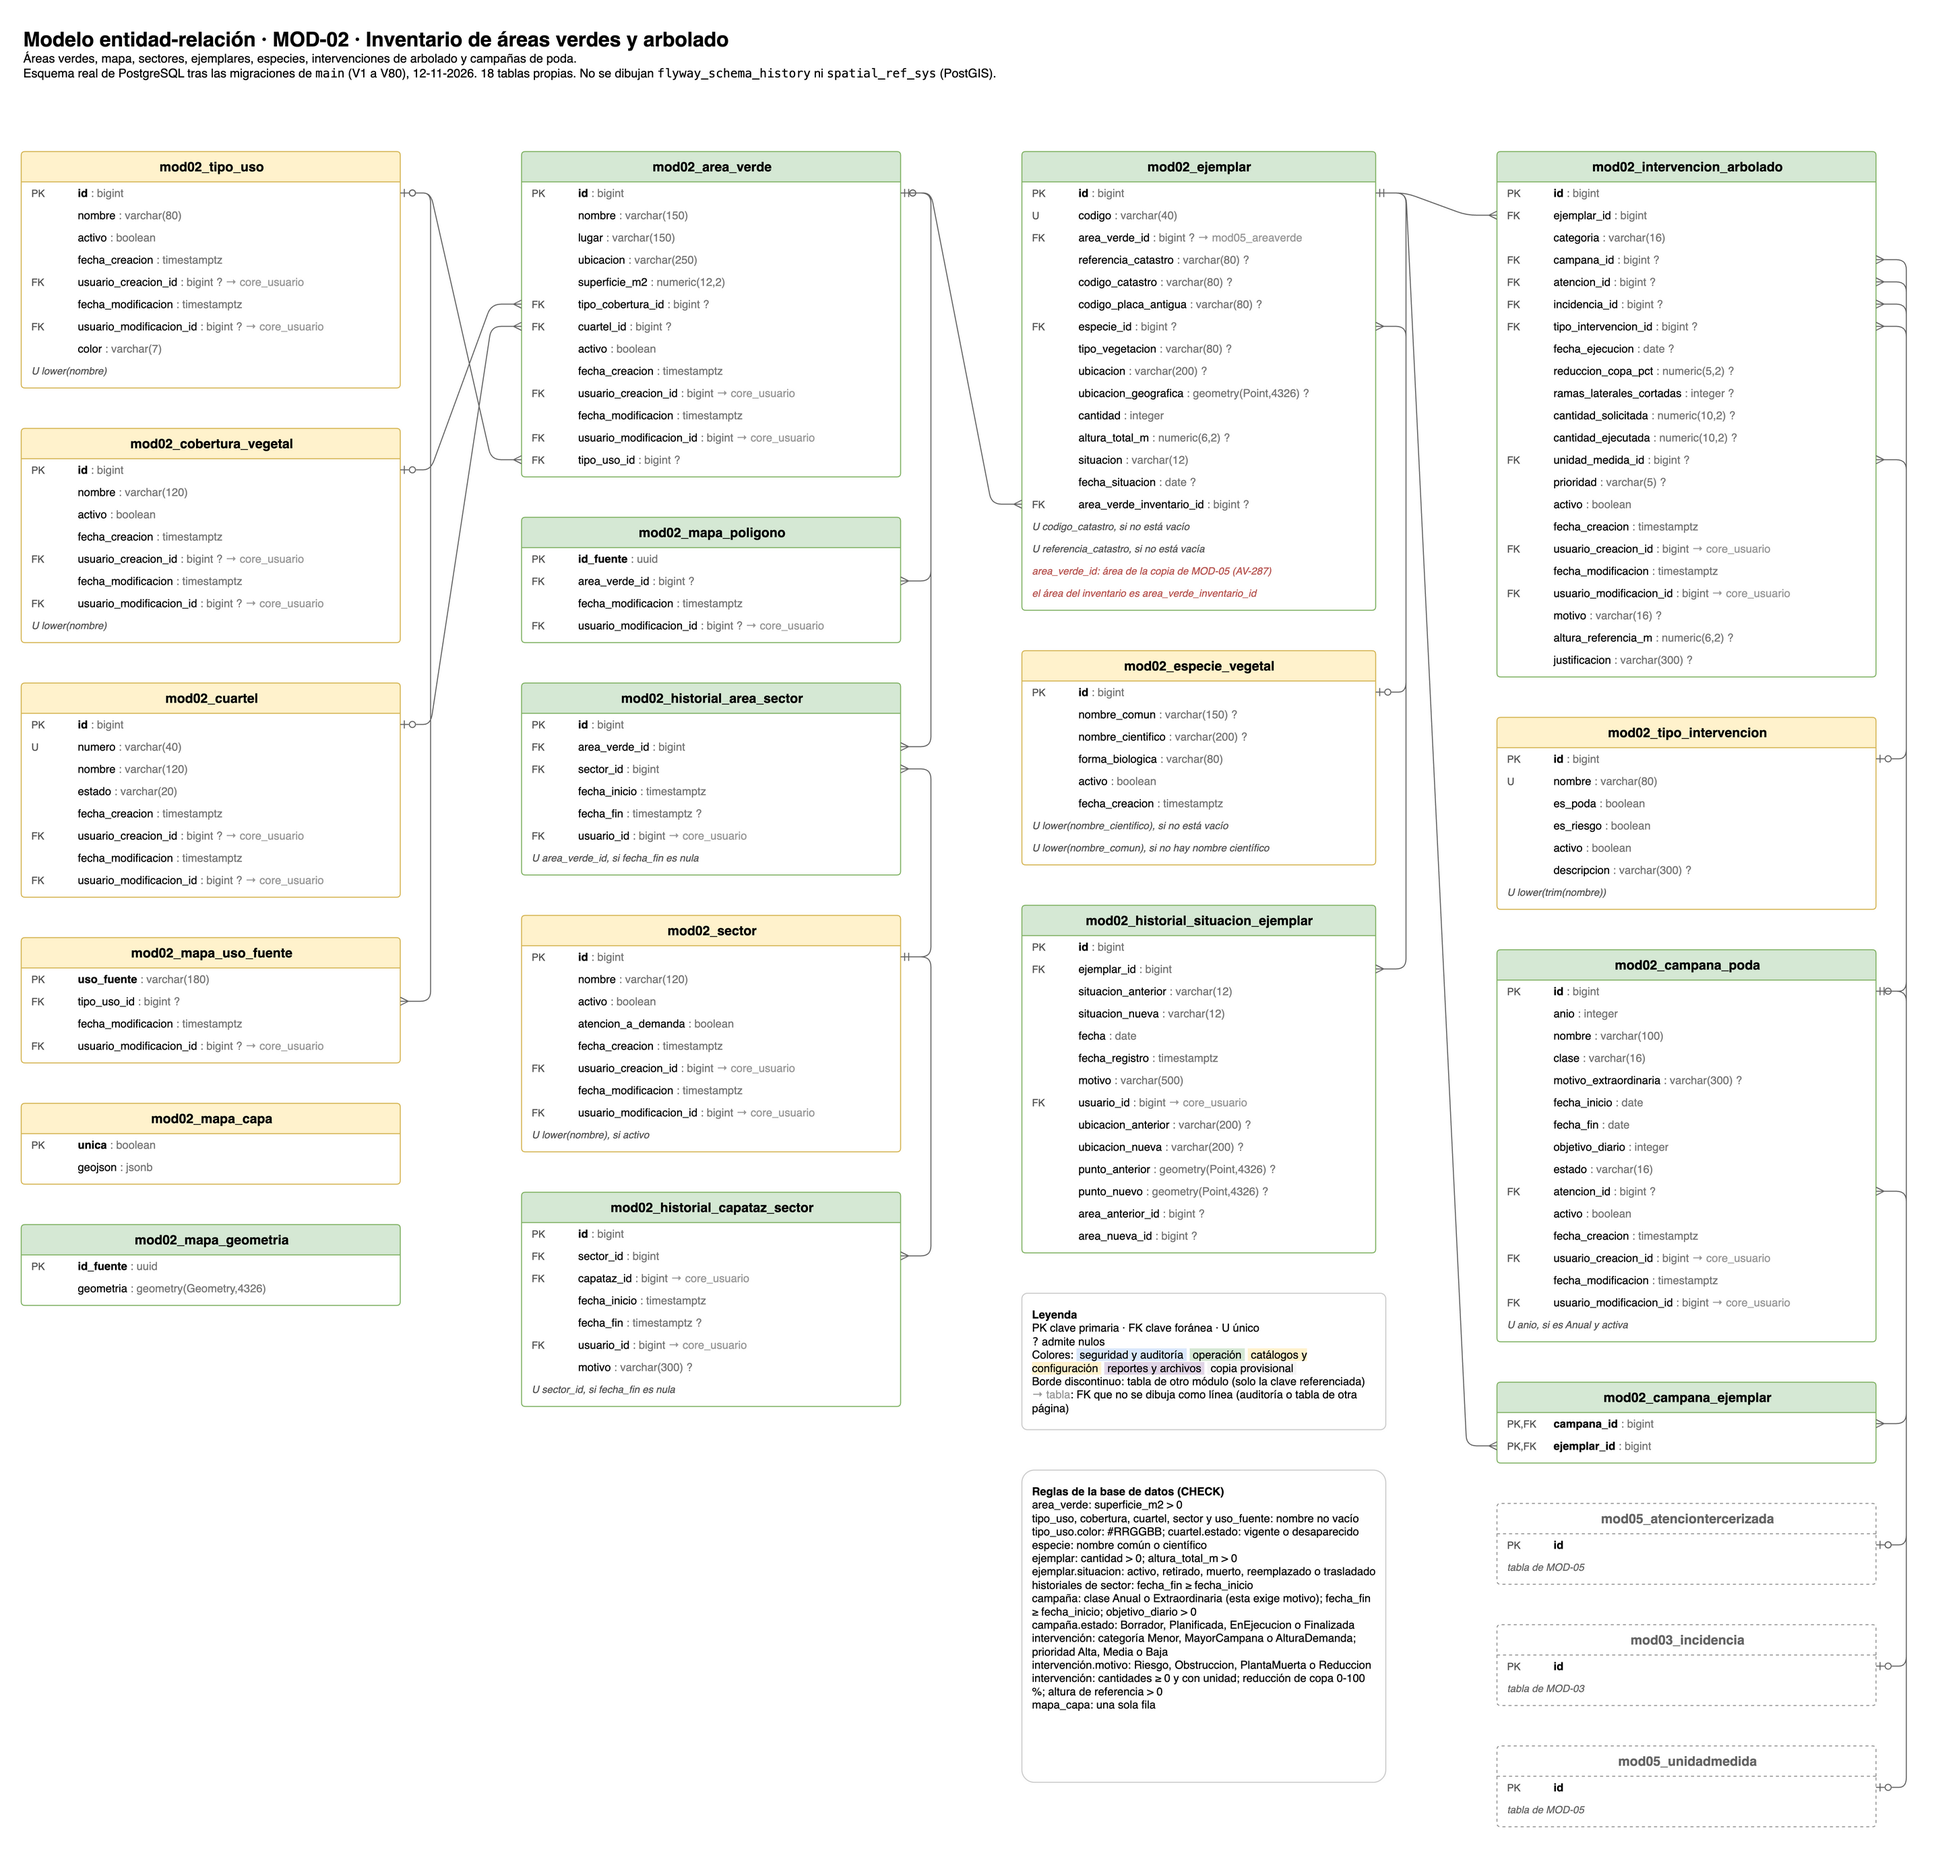
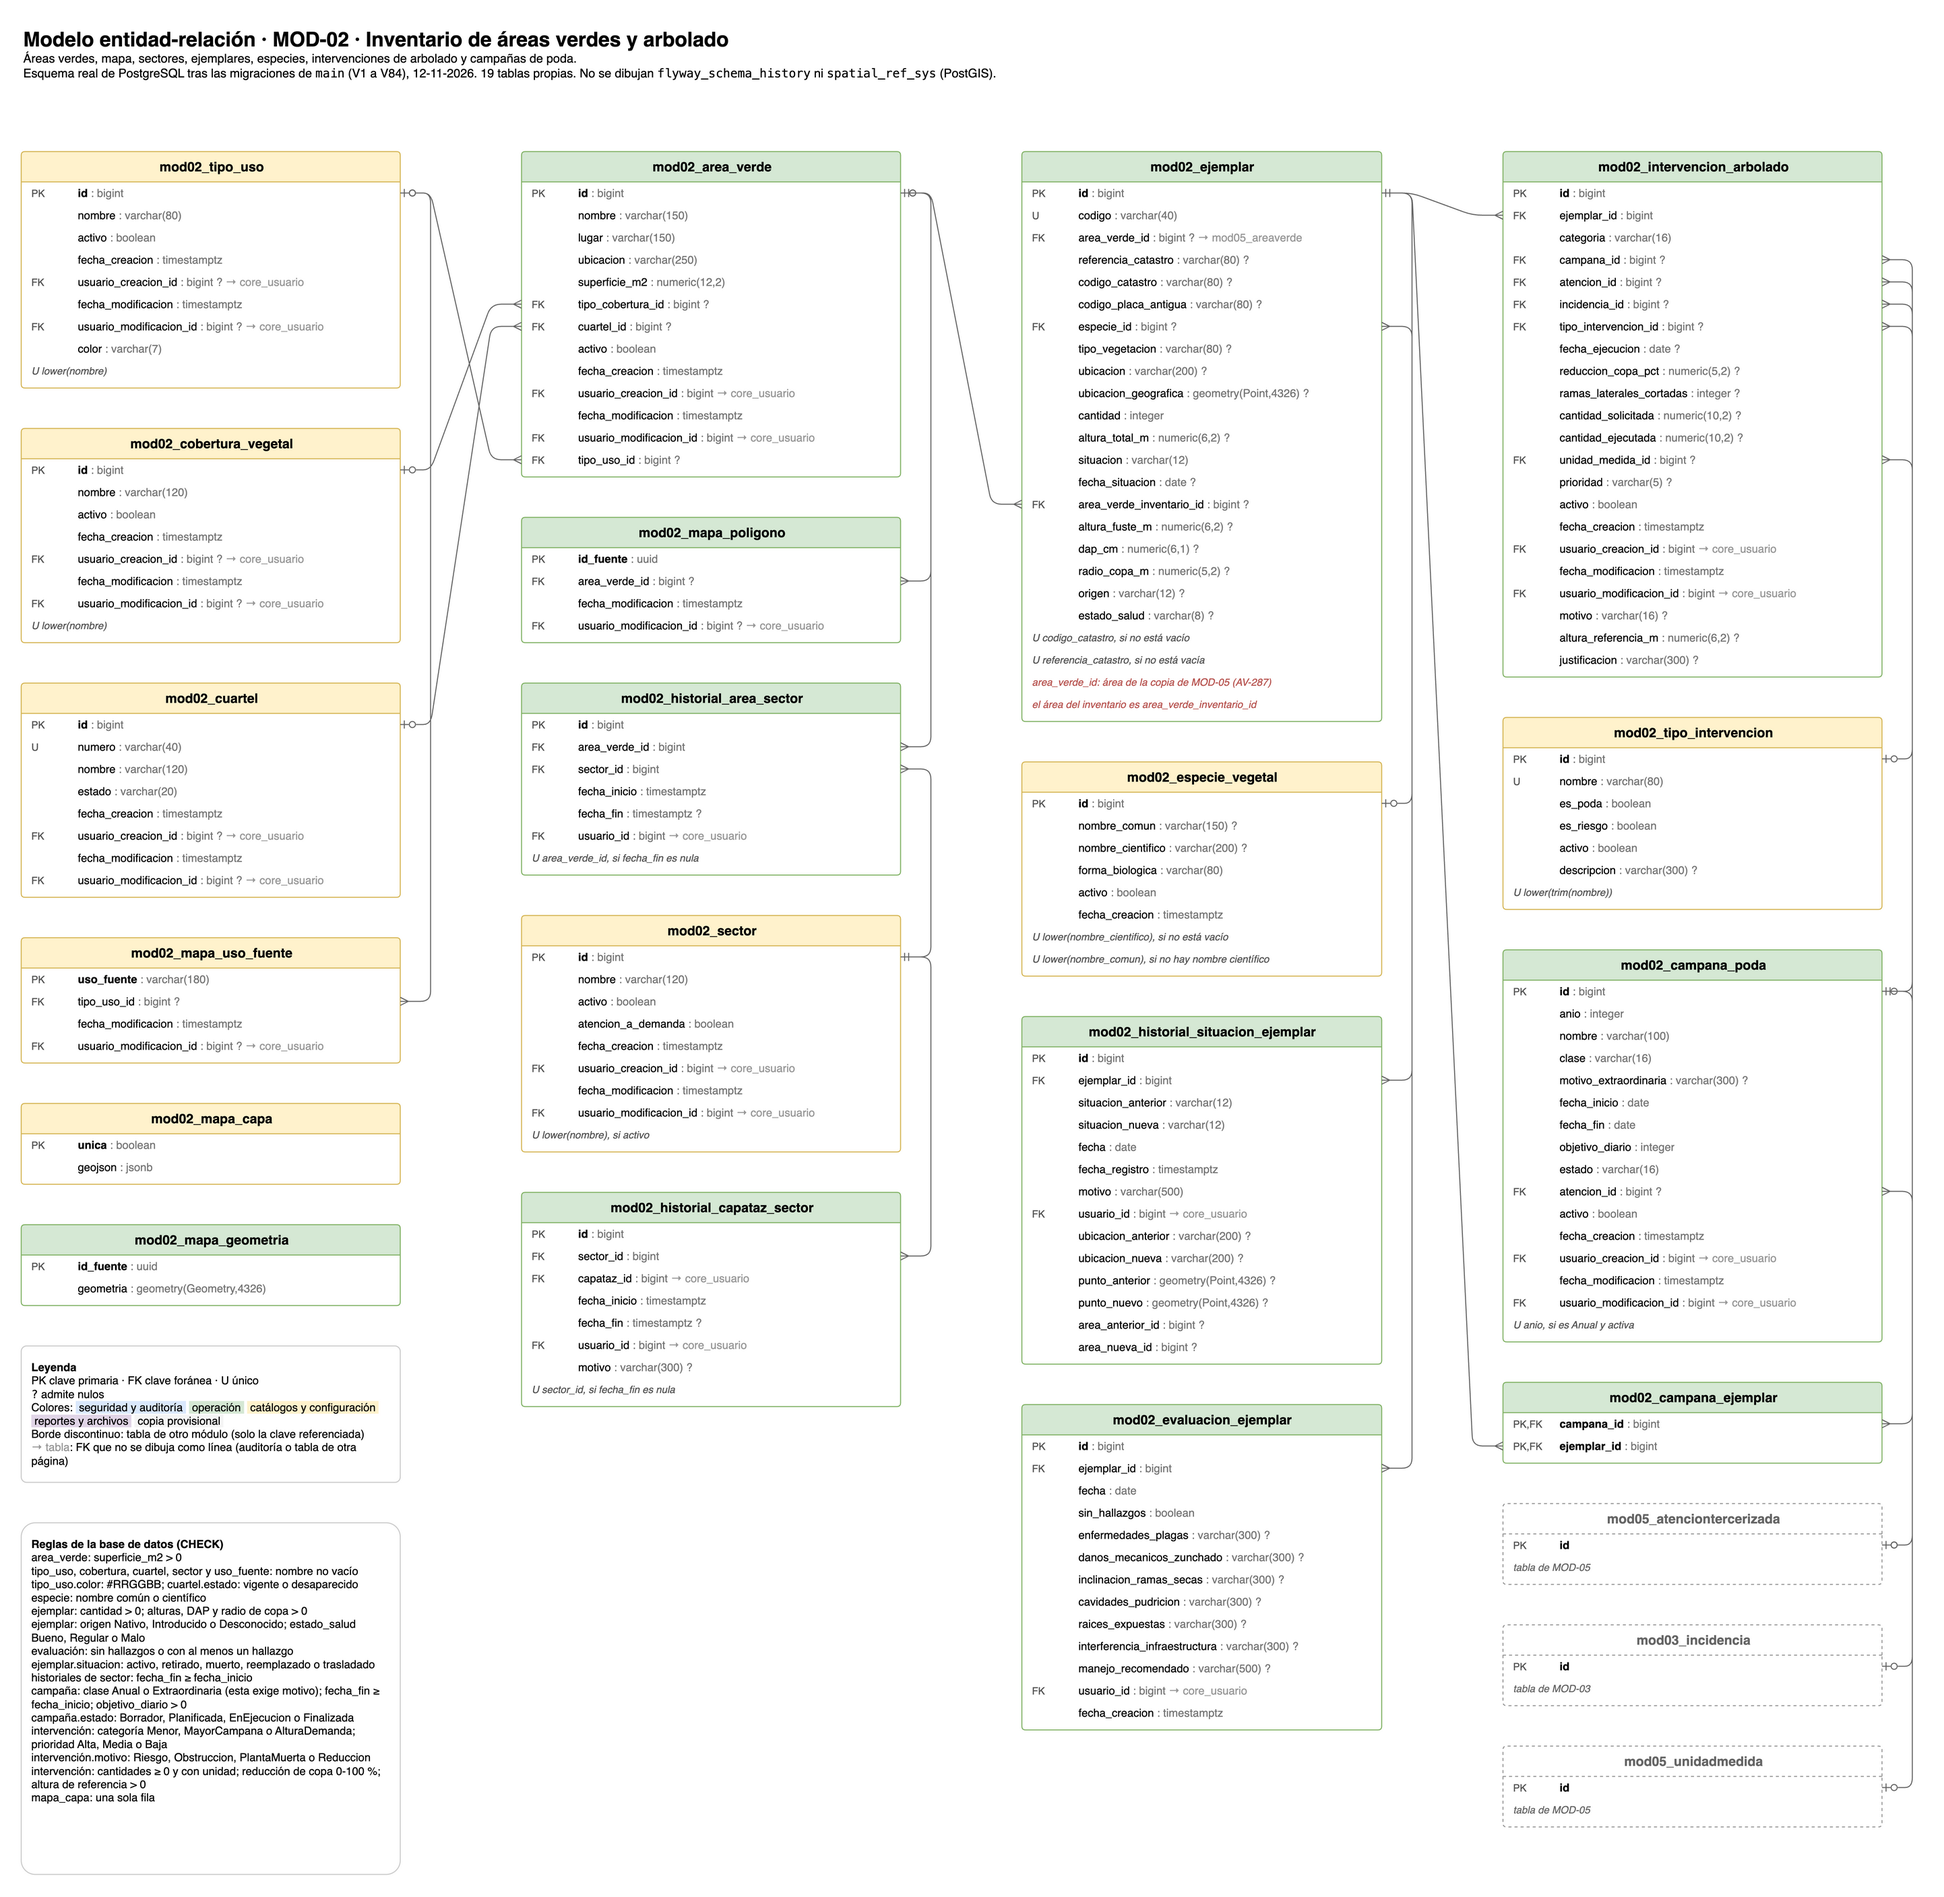
docs(AV-385): el modelo ER incluye las migraciones V81 a V84
Evaluación del ejemplar (MOD-02), cambios de estado y encargo directo (MOD-04) y vínculo incidencia-encargo (MOD-03): 99 tablas.

diff --git a/docs/base-datos/generar-modelo-er.py b/docs/base-datos/generar-modelo-er.py
@@ -89,7 +89,7 @@ CATEGORIA = {
     "mod02_area_verde": "op", "mod02_ejemplar": "op", "mod02_mapa_poligono": "op", "mod02_mapa_geometria": "op",
     "mod02_historial_area_sector": "op", "mod02_historial_capataz_sector": "op",
     "mod02_historial_situacion_ejemplar": "op", "mod02_intervencion_arbolado": "op", "mod02_campana_poda": "op",
-    "mod02_campana_ejemplar": "op",
+    "mod02_campana_ejemplar": "op", "mod02_evaluacion_ejemplar": "op",
     # MOD-03
     "mod03_frecuencia_servicio": "cat", "mod03_duracion_servicio": "cat", "mod03_tipo_restriccion": "cat",
     "mod03_valor_inicial_frecuencia": "cat", "mod03_valor_inicial_duracion": "cat", "mod03_tipo_incidencia": "cat",
@@ -99,13 +99,13 @@ CATEGORIA = {
     "mod03_interrupcion_corte": "op", "mod03_limpieza_corte": "op", "mod03_alerta": "op", "mod03_aviso": "op",
     "mod03_incidencia": "op", "mod03_reporte_incidencia": "op", "mod03_historial_incidencia": "op",
     "mod03_inspeccion_incidencia": "op", "mod03_requerimiento_incidencia": "op", "mod03_causa_retraso": "op",
-    "mod03_aviso_plazo": "op",
+    "mod03_aviso_plazo": "op", "mod03_encargo_incidencia": "op",
     # MOD-04
     "mod04_personal": "op", "mod04_cuadrilla": "op", "mod04_asignacion_cuadrilla": "op",
     "mod04_tipo_actividad": "cat", "mod04_clase_actividad": "cat", "mod04_material_catalogo": "cat",
     "mod04_unidad_medida": "cat", "mod04_encargo": "op", "mod04_parte_diario": "op",
     "mod04_actividad": "op", "mod04_participacion_actividad": "op", "mod04_material_actividad": "op",
-    "mod04_idempotencia": "seg",
+    "mod04_idempotencia": "seg", "mod04_encargo_cambio_estado": "op",
     # MOD-05
     "mod05_contrato": "cat", "mod05_contrato_detalle": "cat", "mod05_proveedor": "cat",
     "mod05_proveedor_detalle": "cat", "mod05_tiposervicio": "cat", "mod05_unidadinstitucional": "cat",
@@ -176,7 +176,9 @@ REGLAS = {
         "tipo_uso, cobertura, cuartel, sector y uso_fuente: nombre no vacío",
         "tipo_uso.color: #RRGGBB; cuartel.estado: vigente o desaparecido",
         "especie: nombre común o científico",
-        "ejemplar: cantidad > 0; altura_total_m > 0",
+        "ejemplar: cantidad > 0; alturas, DAP y radio de copa > 0",
+        "ejemplar: origen Nativo, Introducido o Desconocido; estado_salud Bueno, Regular o Malo",
+        "evaluación: sin hallazgos o con al menos un hallazgo",
         "ejemplar.situacion: activo, retirado, muerto, reemplazado o trasladado",
         "historiales de sector: fecha_fin ≥ fecha_inicio",
         "campaña: clase Anual o Extraordinaria (esta exige motivo); fecha_fin ≥ fecha_inicio; objetivo_diario > 0",
@@ -211,13 +213,15 @@ REGLAS = {
         "requerimiento.tipo_atencion: Programada o Extraordinaria",
         "causa_retraso: causa no vacía",
         "aviso_plazo.nivel: SuperaObjetivo o Vencida",
+        "encargo_incidencia: cada encargo de MOD-04 pertenece a una sola incidencia (U encargo_id)",
     ],
     "MOD-04": [
         "personal: nombres no vacíos; apellidos si no tiene usuario; tipo Capataz u Operario",
         "personal: solo un Capataz puede tener usuario_id",
         "cuadrilla y tipo_actividad: nombre no vacío",
         "asignación: fecha_fin ≥ fecha_inicio",
-        "encargo: periodicidad Semanal (< 7 días) o Quincenal (< 14 días); descripción no vacía",
+        "encargo: Directo (sin reunión, fin = plazo), Semanal (< 7 días) o Quincenal (< 14 días); descripción no vacía",
+        "encargo.estado: Por completar, En curso, Completado, Observado o Cancelado",
         "encargo: fecha_fin ≥ fecha_inicio; plazo_previsto dentro del periodo",
         "parte_diario.estado: Abierto o Cerrado",
         "actividad: tiempo_minutos entre 1 y 1440; cantidades y superficie ≥ 0",
@@ -272,7 +276,8 @@ PAGINAS = [
              "mod02_mapa_capa", "mod02_mapa_geometria"],
             ["mod02_area_verde", "mod02_mapa_poligono", "mod02_historial_area_sector", "mod02_sector",
              "mod02_historial_capataz_sector"],
-            ["mod02_ejemplar", "mod02_especie_vegetal", "mod02_historial_situacion_ejemplar"],
+            ["mod02_ejemplar", "mod02_especie_vegetal", "mod02_historial_situacion_ejemplar",
+             "mod02_evaluacion_ejemplar"],
             ["mod02_intervencion_arbolado", "mod02_tipo_intervencion", "mod02_campana_poda",
              "mod02_campana_ejemplar", "mod05_atenciontercerizada", "mod03_incidencia", "mod05_unidadmedida"],
         ],
@@ -296,13 +301,14 @@ PAGINAS = [
     {
         "id": "mod03-incidencias", "prefijo": "mod03", "nombre": "MOD-03 · Incidencias", "reglas": "MOD-03 incidencias",
         "titulo": "MOD-03 · Incidencias",
-        "texto": "Registro, reportes sumados, clasificación, inspección, derivación a MOD-04 o MOD-05, retrasos y avisos de plazo.",
+        "texto": "Registro, reportes sumados, clasificación, inspección, derivación a un encargo de MOD-04 o a un proveedor de MOD-05, retrasos y avisos de plazo.",
         "columnas": [
             ["mod03_tipo_incidencia", "mod02_area_verde", "mod02_ejemplar", "mod04_personal"],
             ["mod03_incidencia"],
             ["mod03_reporte_incidencia", "mod03_historial_incidencia", "mod03_inspeccion_incidencia",
              "mod03_causa_retraso", "mod03_aviso_plazo"],
-            ["mod03_requerimiento_incidencia", "mod05_atenciontercerizada", "mod05_proveedor"],
+            ["mod03_requerimiento_incidencia", "mod05_atenciontercerizada", "mod05_proveedor",
+             "mod03_encargo_incidencia", "mod04_encargo"],
         ],
     },
     {
@@ -311,7 +317,7 @@ PAGINAS = [
         "texto": "Personal, cuadrillas, encargos, partes diarios, actividades y materiales.",
         "desplazamiento": {1: 100},
         "columnas": [
-            ["mod04_cuadrilla", "mod04_asignacion_cuadrilla"],
+            ["mod04_cuadrilla", "mod04_asignacion_cuadrilla", "mod04_encargo_cambio_estado"],
             ["mod04_personal", "mod04_encargo", "mod04_tipo_actividad", "mod04_clase_actividad",
              "mod04_idempotencia"],
             ["mod04_parte_diario", "mod04_actividad", "mod04_participacion_actividad", "mod05_areaverde"],

diff --git a/docs/base-datos/README.md b/docs/base-datos/README.md
@@ -1,14 +1,14 @@
 # Modelo entidad-relación
 
-Esquema **real** de PostgreSQL tal como queda tras las migraciones de Flyway de `main` (`V1` a `V80`), sacado el 12-11-2026: 96 tablas. Hay una página por módulo en `modelo-er.drawio` (MOD-03 ocupa dos) y un PNG por página:
+Esquema **real** de PostgreSQL tal como queda tras las migraciones de Flyway de `main` (`V1` a `V84`), sacado el 12-11-2026: 99 tablas. Hay una página por módulo en `modelo-er.drawio` (MOD-03 ocupa dos) y un PNG por página:
 
 | Módulo | Migraciones | Tablas | Diagrama |
 |---|---|---|---|
 | MOD-01 · Core y seguridad | `V6` a `V10`, `V23`, `V24`, `V75` y `V76` | 11 (`core_`) | [modelo-er-mod01.png](modelo-er-mod01.png) |
-| MOD-02 · Inventario | `V12` a `V22`, `V45`, `V46`, `V59`, `V62` a `V67`, `V71` y `V80` | 18 | [modelo-er-mod02.png](modelo-er-mod02.png) |
+| MOD-02 · Inventario | `V12` a `V22`, `V45`, `V46`, `V59`, `V62` a `V67`, `V71`, `V80` y `V81` | 19 | [modelo-er-mod02.png](modelo-er-mod02.png) |
 | MOD-03 · Planificación y corte | `V2` a `V4` y `V25` a `V44` | 17 | [modelo-er-mod03.png](modelo-er-mod03.png) |
-| MOD-03 · Incidencias | `V25` a `V44` y `V79` | 8 | [modelo-er-mod03-incidencias.png](modelo-er-mod03-incidencias.png) |
-| MOD-04 · Operación de campo | `V11`, `V54` a `V58`, `V60`, `V61`, `V68`, `V69` y `V78` | 13 | [modelo-er-mod04.png](modelo-er-mod04.png) |
+| MOD-03 · Incidencias | `V25` a `V44`, `V79` y `V84` | 9 | [modelo-er-mod03-incidencias.png](modelo-er-mod03-incidencias.png) |
+| MOD-04 · Operación de campo | `V11`, `V54` a `V58`, `V60`, `V61`, `V68`, `V69`, `V78`, `V82` y `V83` | 14 | [modelo-er-mod04.png](modelo-er-mod04.png) |
 | MOD-05 · Servicios tercerizados | `V1`, `V5`, `V47` a `V53`, `V70`, `V73`, `V74` y `V77` | 27 | [modelo-er-mod05.png](modelo-er-mod05.png) |
 | MOD-06 · Reportes e IA | `V72` | 2 | [modelo-er-mod06.png](modelo-er-mod06.png) |
 
